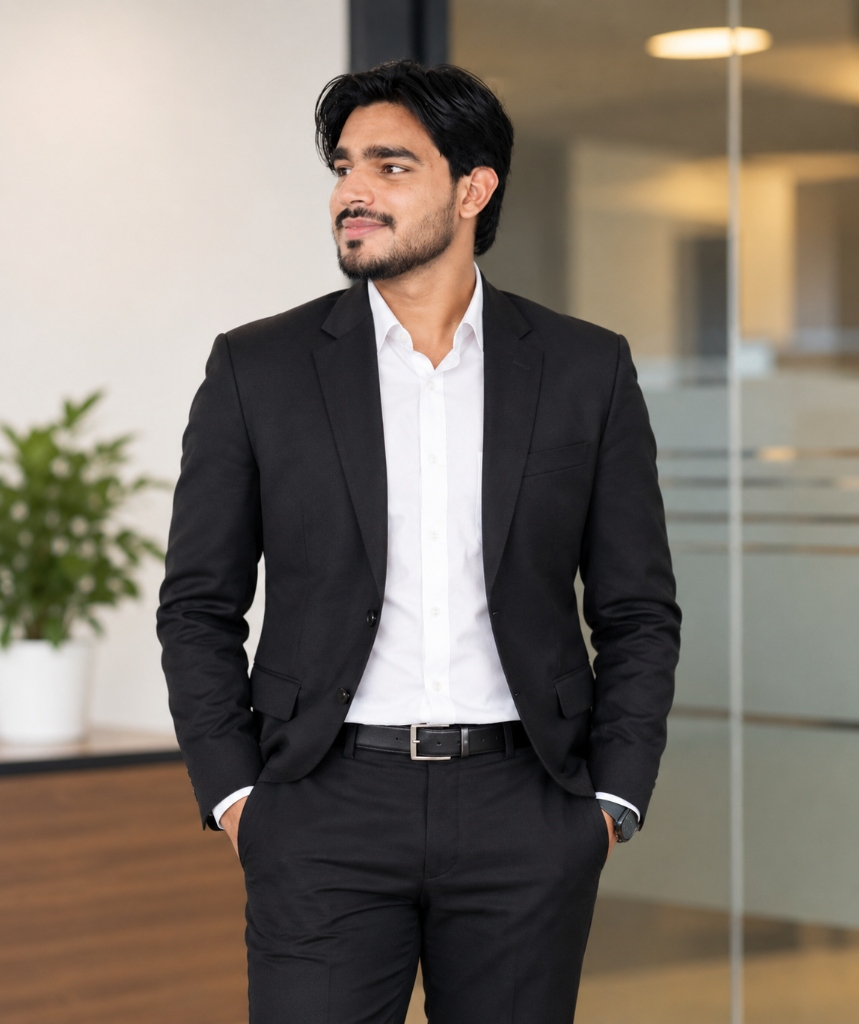
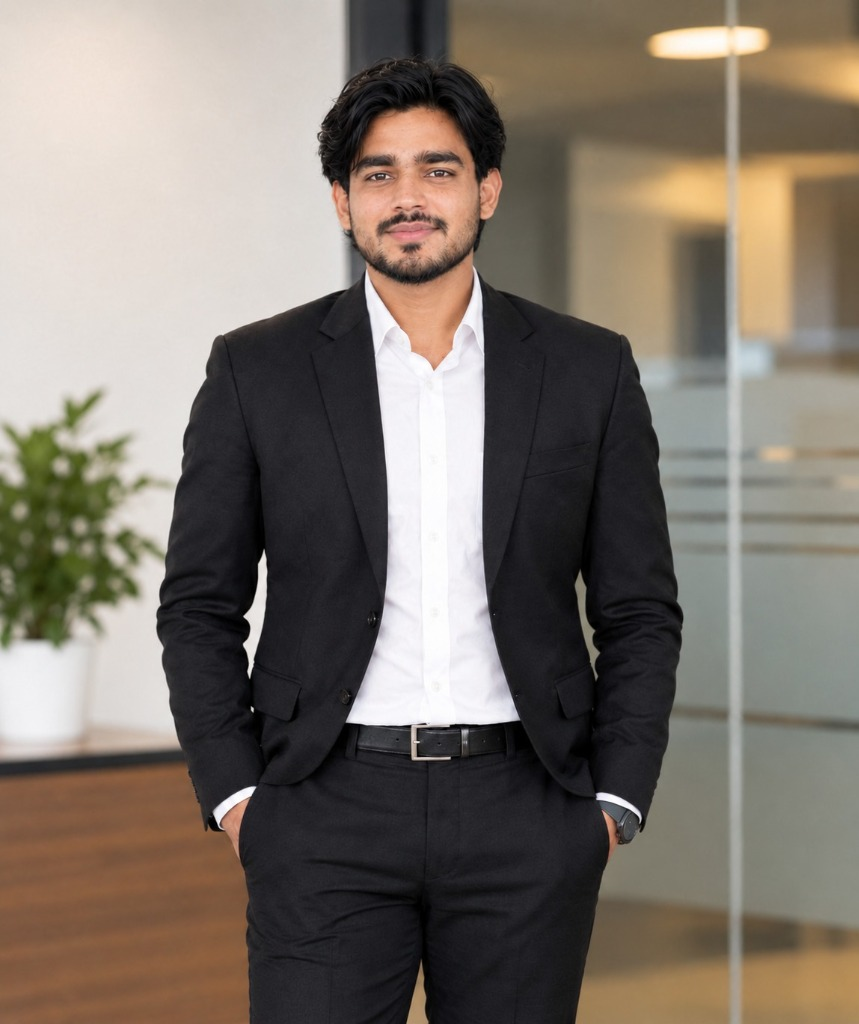
Update portfolio: modern UI, new profile portrait, CDLU Sirsa education, LinkedIn and GitHub links

diff --git a/index.html b/index.html
@@ -91,17 +91,29 @@
         <div class="hero-actions">
           <a href="#projects" class="btn btn-primary">View My Projects</a>
           <a href="#contact" class="btn btn-secondary">Contact Me</a>
+          <a href="https://www.linkedin.com/in/sumit-chauhan-764107437" id="hero-linkedin-btn" target="_blank" rel="noopener" class="btn btn-linkedin">
+            <svg width="17" height="17" viewBox="0 0 24 24" fill="currentColor" aria-hidden="true">
+              <path d="M19 3a2 2 0 0 1 2 2v14a2 2 0 0 1-2 2H5a2 2 0 0 1-2-2V5a2 2 0 0 1 2-2h14m-.5 15.5v-5.3a3.26 3.26 0 0 0-3.26-3.26c-.85 0-1.84.52-2.28 1.3v-1.11h-2.79v8.37h2.79v-4.93c0-.77.62-1.4 1.39-1.4a1.4 1.4 0 0 1 1.4 1.4v4.93h2.75M6.88 8.56a1.68 1.68 0 0 0 1.68-1.68c0-.93-.75-1.69-1.68-1.69a1.69 1.69 0 0 0-1.69 1.69c0 .93.76 1.68 1.69 1.68m1.39 9.94v-8.37H5.5v8.37h2.77z"/>
+            </svg>
+            <span>LinkedIn</span>
+          </a>
+          <a href="https://github.com/sumitkhabra5911-hub" id="hero-github-btn" target="_blank" rel="noopener" class="btn btn-github">
+            <svg width="17" height="17" viewBox="0 0 24 24" fill="currentColor" aria-hidden="true">
+              <path d="M12 2A10 10 0 0 0 2 12c0 4.42 2.87 8.17 6.84 9.5.5.08.66-.23.66-.5v-1.69c-2.77.6-3.36-1.34-3.36-1.34-.46-1.16-1.11-1.47-1.11-1.47-.91-.62.07-.6.07-.6 1 .07 1.53 1.03 1.53 1.03.87 1.52 2.34 1.07 2.91.83.1-.65.35-1.09.63-1.34-2.22-.25-4.55-1.11-4.55-4.92 0-1.11.38-2 1.03-2.71-.1-.25-.45-1.29.1-2.64 0 0 .84-.27 2.75 1.02.79-.22 1.65-.33 2.5-.33.85 0 1.71.11 2.5.33 1.91-1.29 2.75-1.02 2.75-1.02.55 1.35.2 2.39.1 2.64.65.71 1.03 1.6 1.03 2.71 0 3.82-2.34 4.66-4.57 4.91.36.31.69.92.69 1.85V21c0 .27.16.59.67.5C19.14 20.16 22 16.42 22 12A10 10 0 0 0 12 2z"/>
+            </svg>
+            <span>GitHub</span>
+          </a>
         </div>
 
         <!-- Quick Snapshot Highlights -->
         <div class="hero-highlights">
           <div class="highlight-box">
             <div class="highlight-num">2025</div>
-            <div class="highlight-label">B.Sc. Data Science Graduate</div>
+            <div class="highlight-label">Undergraduate • B.Sc. Data Science</div>
           </div>
           <div class="highlight-box">
             <div class="highlight-num">2026</div>
-            <div class="highlight-label">M.Sc in AI & Data Science</div>
+            <div class="highlight-label">Postgraduate • M.Sc in AI & Data Science</div>
           </div>
           <div class="highlight-box">
             <div class="highlight-num">Mohali</div>
@@ -127,12 +139,13 @@
         <div class="about-text">
           <p>
             Hello! I'm <strong>Sumit Chauhan</strong>, a 23-year-old passionate data enthusiast based in Mohali, India.
-            I completed my <strong>B.Sc. in Data Science in 2025</strong>, where I developed a strong foundation in
+            I completed my <strong>Undergraduate</strong> degree, <strong>B.Sc. in Data Science in 2025</strong> from
+            <strong>Chaudhary Devi Lal University, Sirsa</strong>, where I developed a strong foundation in
             statistical analysis, mathematical modeling, and algorithmic problem-solving.
           </p>
           <p>
-            To push my technical frontiers further, I completed my <strong>M.Sc in Artificial Intelligence and Data
-              Science in 2026</strong>, diving deep into machine learning algorithms, predictive modeling, and
+            To push my technical frontiers further, I completed my <strong>Postgraduate</strong> degree, <strong>M.Sc in Artificial Intelligence and Data
+              Science in 2026</strong> from <strong>Chaudhary Devi Lal University, Sirsa</strong>, diving deep into machine learning algorithms, predictive modeling, and
             intelligent data systems.
           </p>
           <p>
@@ -152,16 +165,32 @@
             <span class="info-val">23 Years</span>
           </div>
           <div class="about-info-item">
-            <span class="info-label">Undergrad:</span>
-            <span class="info-val">B.Sc. Data Science (2025)</span>
+            <span class="info-label">Undergraduate:</span>
+            <span class="info-val">B.Sc. Data Science (2025) — Chaudhary Devi Lal University, Sirsa</span>
           </div>
           <div class="about-info-item">
-            <span class="info-label">Postgrad:</span>
-            <span class="info-val">M.Sc in AI & Data Science (Completed 2026)</span>
+            <span class="info-label">Postgraduate:</span>
+            <span class="info-val">M.Sc in AI & Data Science (Completed 2026) — Chaudhary Devi Lal University, Sirsa</span>
           </div>
           <div class="about-info-item">
             <span class="info-label">Current Role:</span>
             <span class="info-val">Internship & Training @ Sortiq Solution, Mohali</span>
+          </div>
+          <div class="about-info-item">
+            <span class="info-label">LinkedIn:</span>
+            <span class="info-val">
+              <a href="https://www.linkedin.com/in/sumit-chauhan-764107437" id="about-linkedin-link" target="_blank" rel="noopener" class="project-link">
+                linkedin.com/in/sumit-chauhan ↗
+              </a>
+            </span>
+          </div>
+          <div class="about-info-item">
+            <span class="info-label">GitHub:</span>
+            <span class="info-val">
+              <a href="https://github.com/sumitkhabra5911-hub" id="about-github-link" target="_blank" rel="noopener" class="project-link">
+                github.com/sumitkhabra5911-hub ↗
+              </a>
+            </span>
           </div>
         </div>
       </div>
@@ -264,9 +293,9 @@
           <h3>🎓 Education</h3>
 
           <div class="timeline-card">
-            <span class="timeline-badge">Completed 2026</span>
+            <span class="timeline-badge">🎓 Postgraduate • Completed 2026</span>
             <h4 class="timeline-title">M.Sc in Artificial Intelligence & Data Science</h4>
-            <div class="timeline-org">Master of Science Degree</div>
+            <div class="timeline-org">🏛 Chaudhary Devi Lal University, Sirsa</div>
             <p class="timeline-desc">
               Comprehensive postgraduate specialization focusing on machine learning architectures, statistical pattern
               recognition, big data methodologies, and artificial intelligence applications.
@@ -274,9 +303,9 @@
           </div>
 
           <div class="timeline-card">
-            <span class="timeline-badge">Graduated 2025</span>
+            <span class="timeline-badge">🎓 Undergraduate • Graduated 2025</span>
             <h4 class="timeline-title">B.Sc. in Data Science</h4>
-            <div class="timeline-org">Bachelor of Science Degree</div>
+            <div class="timeline-org">🏛 Chaudhary Devi Lal University, Sirsa</div>
             <p class="timeline-desc">
               Comprehensive undergraduate program covering linear algebra, probability, database management systems
               (DBMS), Python programming, and data mining.
@@ -317,8 +346,7 @@
             </div>
           </div>
           <div class="project-links">
-            <!-- EDIT HERE: Link to your GitHub repository -->
-            <a href="https://github.com" target="_blank" rel="noopener" class="project-link">View Code →</a>
+            <a href="https://github.com/sumitkhabra5911-hub" target="_blank" rel="noopener" class="project-link">View Code on GitHub →</a>
           </div>
         </div>
 
@@ -341,8 +369,7 @@
             </div>
           </div>
           <div class="project-links">
-            <!-- EDIT HERE: Link to your dashboard live demo or screenshot -->
-            <a href="https://github.com" target="_blank" rel="noopener" class="project-link">View Dashboard →</a>
+            <a href="https://github.com/sumitkhabra5911-hub" target="_blank" rel="noopener" class="project-link">View Dashboard on GitHub →</a>
           </div>
         </div>
 
@@ -364,8 +391,7 @@
             </div>
           </div>
           <div class="project-links">
-            <!-- EDIT HERE: Link to your project -->
-            <a href="https://github.com" target="_blank" rel="noopener" class="project-link">View Analysis →</a>
+            <a href="https://github.com/sumitkhabra5911-hub" target="_blank" rel="noopener" class="project-link">View Analysis on GitHub →</a>
           </div>
         </div>
       </div>
@@ -424,11 +450,19 @@
               <div class="contact-icon">💼</div>
               <div>
                 <div class="contact-label">Professional Links</div>
-                <div style="margin-top: 6px; display: flex; gap: 14px;">
-                  <!-- EDIT HERE: Add your LinkedIn profile URL -->
-                  <a href="https://linkedin.com" target="_blank" rel="noopener" class="project-link">LinkedIn ↗</a>
-                  <!-- EDIT HERE: Add your GitHub profile URL -->
-                  <a href="https://github.com" target="_blank" rel="noopener" class="project-link">GitHub ↗</a>
+                <div style="margin-top: 8px; display: flex; gap: 12px; flex-wrap: wrap;">
+                  <a href="https://www.linkedin.com/in/sumit-chauhan-764107437" id="contact-linkedin-link" target="_blank" rel="noopener" class="contact-social-btn linkedin">
+                    <svg width="16" height="16" viewBox="0 0 24 24" fill="currentColor" aria-hidden="true">
+                      <path d="M19 3a2 2 0 0 1 2 2v14a2 2 0 0 1-2 2H5a2 2 0 0 1-2-2V5a2 2 0 0 1 2-2h14m-.5 15.5v-5.3a3.26 3.26 0 0 0-3.26-3.26c-.85 0-1.84.52-2.28 1.3v-1.11h-2.79v8.37h2.79v-4.93c0-.77.62-1.4 1.39-1.4a1.4 1.4 0 0 1 1.4 1.4v4.93h2.75M6.88 8.56a1.68 1.68 0 0 0 1.68-1.68c0-.93-.75-1.69-1.68-1.69a1.69 1.69 0 0 0-1.69 1.69c0 .93.76 1.68 1.69 1.68m1.39 9.94v-8.37H5.5v8.37h2.77z"/>
+                    </svg>
+                    <span>LinkedIn ↗</span>
+                  </a>
+                  <a href="https://github.com/sumitkhabra5911-hub" id="contact-github-link" target="_blank" rel="noopener" class="contact-social-btn">
+                    <svg width="16" height="16" viewBox="0 0 24 24" fill="currentColor" aria-hidden="true">
+                      <path d="M12 2A10 10 0 0 0 2 12c0 4.42 2.87 8.17 6.84 9.5.5.08.66-.23.66-.5v-1.69c-2.77.6-3.36-1.34-3.36-1.34-.46-1.16-1.11-1.47-1.11-1.47-.91-.62.07-.6.07-.6 1 .07 1.53 1.03 1.53 1.03.87 1.52 2.34 1.07 2.91.83.1-.65.35-1.09.63-1.34-2.22-.25-4.55-1.11-4.55-4.92 0-1.11.38-2 1.03-2.71-.1-.25-.45-1.29.1-2.64 0 0 .84-.27 2.75 1.02.79-.22 1.65-.33 2.5-.33.85 0 1.71.11 2.5.33 1.91-1.29 2.75-1.02 2.75-1.02.55 1.35.2 2.39.1 2.64.65.71 1.03 1.6 1.03 2.71 0 3.82-2.34 4.66-4.57 4.91.36.31.69.92.69 1.85V21c0 .27.16.59.67.5C19.14 20.16 22 16.42 22 12A10 10 0 0 0 12 2z"/>
+                    </svg>
+                    <span>GitHub ↗</span>
+                  </a>
                 </div>
               </div>
             </div>
@@ -467,8 +501,12 @@
        FOOTER
        ========================================================================= -->
   <footer class="footer">
-    <div class="container">
+    <div class="container" style="display: flex; justify-content: space-between; align-items: center; flex-wrap: wrap; gap: 16px;">
       <p>&copy; 2026 Sumit Chauhan. Built with clean HTML, CSS & JavaScript.</p>
+      <div style="display: flex; gap: 18px;">
+        <a href="https://www.linkedin.com/in/sumit-chauhan-764107437" target="_blank" rel="noopener" class="project-link">LinkedIn ↗</a>
+        <a href="https://github.com/sumitkhabra5911-hub" target="_blank" rel="noopener" class="project-link">GitHub ↗</a>
+      </div>
     </div>
   </footer>
 

diff --git a/style.css b/style.css
@@ -147,6 +147,34 @@ a {
   transform: translateY(-2px);
 }
 
+.btn-linkedin {
+  background: rgba(10, 102, 194, 0.15);
+  color: #38bdf8;
+  border: 1px solid rgba(14, 165, 233, 0.45);
+}
+
+.btn-linkedin:hover {
+  background: #0a66c2;
+  color: #ffffff;
+  border-color: #0a66c2;
+  box-shadow: 0 6px 22px rgba(10, 102, 194, 0.45);
+  transform: translateY(-2px);
+}
+
+.btn-github {
+  background: rgba(255, 255, 255, 0.05);
+  color: var(--text-main);
+  border: 1px solid var(--border-color);
+}
+
+.btn-github:hover {
+  background: rgba(255, 255, 255, 0.12);
+  color: #ffffff;
+  border-color: rgba(255, 255, 255, 0.35);
+  box-shadow: 0 6px 20px rgba(0, 0, 0, 0.5);
+  transform: translateY(-2px);
+}
+
 .btn-sm {
   padding: 8px 18px;
   font-size: 0.88rem;
@@ -731,6 +759,40 @@ section {
 
 .project-link:hover {
   color: var(--accent-teal);
+}
+
+.contact-social-btn {
+  display: inline-flex;
+  align-items: center;
+  gap: 6px;
+  padding: 6px 14px;
+  border-radius: var(--radius-full);
+  background: rgba(255, 255, 255, 0.04);
+  border: 1px solid var(--border-color);
+  color: var(--text-main);
+  font-size: 0.88rem;
+  font-weight: 600;
+  transition: var(--transition);
+}
+
+.contact-social-btn:hover {
+  background: rgba(0, 242, 254, 0.1);
+  border-color: var(--accent-cyan);
+  color: var(--accent-cyan);
+  transform: translateY(-2px);
+}
+
+.contact-social-btn.linkedin {
+  background: rgba(10, 102, 194, 0.12);
+  border-color: rgba(14, 165, 233, 0.4);
+  color: #38bdf8;
+}
+
+.contact-social-btn.linkedin:hover {
+  background: #0a66c2;
+  border-color: #0a66c2;
+  color: #ffffff;
+  box-shadow: 0 4px 15px rgba(10, 102, 194, 0.4);
 }
 
 /* --- Contact Section --- */
